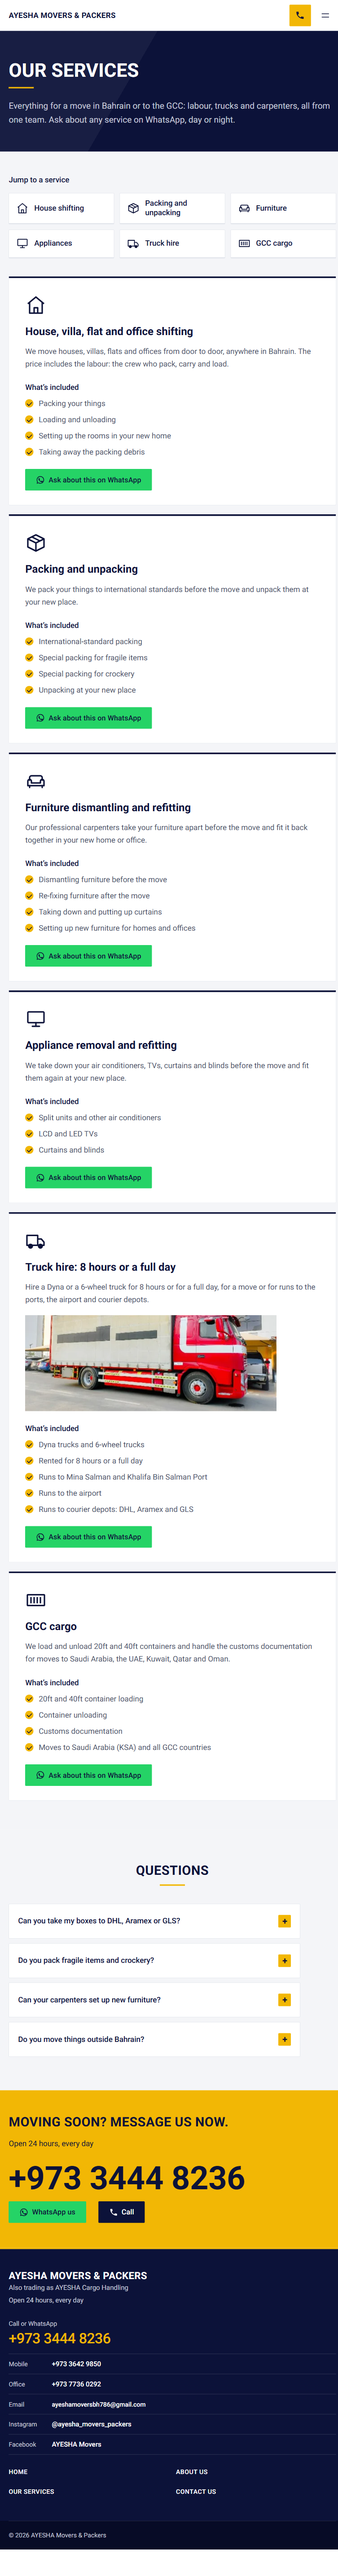
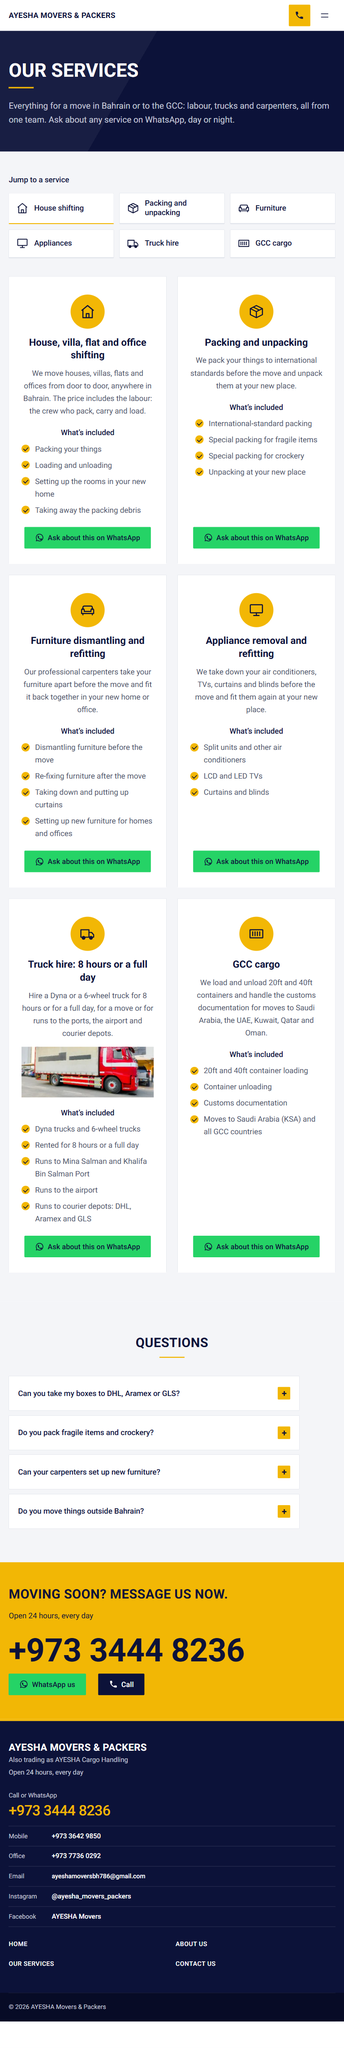
Phase 7: Our Services cards in Home's card style
Icon in a gold circle, centred title and text, What's included as a centred block, WhatsApp
button at the card foot, hover lift; 3/2/1 columns. CSS only; anchors unchanged.

Changed region(s): [[0.0, 0.0, 1.0, 0.9963], [0.5498, 0.5915, 0.9469, 0.6227], [0.5193, 0.934, 0.6414, 0.9963]]

diff --git a/wp-content/themes/ayesha-movers/assets/css/theme.css b/wp-content/themes/ayesha-movers/assets/css/theme.css
@@ -53,7 +53,7 @@
 
 /* An icon is a masked box in the current colour. */
 .ayesha-icon,
-:where(.ayesha-svc__section, .ayesha-reason, .ayesha-topbar__item)::before {
+:where(.ayesha-reason, .ayesha-topbar__item)::before {
 	background: currentColor;
 	-webkit-mask: var(--ayesha-icon, var(--ayesha-icon-box)) center / contain no-repeat;
 	mask: var(--ayesha-icon, var(--ayesha-icon-box)) center / contain no-repeat;
@@ -1271,53 +1271,89 @@ a { color: var(--ayesha-navy); text-underline-offset: 0.2em; }
 .ayesha-jump__list a:hover,
 .ayesha-jump__list a[aria-current] { border-bottom-color: var(--ayesha-gold); }
 
-/* The six services: white cards, two across on computers. */
-.ayesha-svc__sections { display: grid; gap: 1.25rem; }
+/* The six services: white cards like Home's "What we do" (icon in a gold circle, centred title and
+   text, hover lift), three across on wide screens. The "What's included" list stays left-aligned as
+   a centred block, so the ticks line up. */
+.ayesha-svc__sections { display: grid; gap: 1.5rem; }
 
-@media (min-width: 960px) {
-	.ayesha-svc__sections { grid-template-columns: repeat(2, minmax(0, 1fr)); gap: 1.5rem; }
+@media (min-width: 640px) {
+	.ayesha-svc__sections { grid-template-columns: repeat(2, minmax(0, 1fr)); }
+}
+
+@media (min-width: 1100px) {
+	.ayesha-svc__sections { grid-template-columns: repeat(3, minmax(0, 1fr)); }
 }
 
 .ayesha-svc__section {
 	position: relative;
+	display: flex;
+	flex-direction: column;
+	align-items: center;
 	box-sizing: border-box;
-	padding: 2rem 1.5rem !important;
+	padding: 2.5rem 1.75rem 2rem !important;
 	background: #fff;
 	border: 1px solid var(--ayesha-line);
-	border-top: 4px solid var(--ayesha-navy);
+	border-bottom: 3px solid transparent;
 	border-radius: 2px;
 	color: var(--ayesha-slate);
+	text-align: center;
+	transition: transform 200ms ease, box-shadow 200ms ease, border-color 200ms ease;
 }
 
-@media (min-width: 600px) {
-	.ayesha-svc__section { padding: 2.25rem 2.25rem 2rem !important; }
-}
-
+/* Icon: a gold circle (::before) with the service's line icon on it (::after), as on Home. */
 .ayesha-svc__section::before {
 	content: "";
-	display: block;
-	width: 48px;
-	height: 48px;
-	margin-block-end: 1.25rem;
+	flex: none;
+	width: 76px;
+	height: 76px;
+	margin-block-end: 1rem;
+	border-radius: 50%;
+	background: var(--ayesha-gold);
+}
+
+.ayesha-svc__section::after {
+	content: "";
+	position: absolute;
+	top: calc(2.5rem + 20px);
+	left: calc(50% - 18px);
+	width: 36px;
+	height: 36px;
 	background: var(--ayesha-navy);
+	-webkit-mask: var(--ayesha-icon, var(--ayesha-icon-box)) center / contain no-repeat;
+	mask: var(--ayesha-icon, var(--ayesha-icon-box)) center / contain no-repeat;
 }
 
 .ayesha-svc__section > * { margin-block: 0; }
-.ayesha-svc__section > * + * { margin-block-start: 1rem; }
+.ayesha-svc__section > * + * { margin-block-start: 0.75rem; }
 
 .ayesha-svc__section h2 {
 	scroll-margin-block-start: 2rem;
-	font-size: 1.5rem;
+	font-size: 1.375rem;
 	font-weight: 700;
+	line-height: 1.3;
 	text-transform: none;
 	letter-spacing: 0;
 }
 
-.ayesha-svc__section > .ayesha-svc__label { margin-block-start: 1.5rem; color: var(--ayesha-navy); font-weight: 500; }
+.ayesha-svc__section > .ayesha-svc__label { margin-block-start: 1.25rem; color: var(--ayesha-navy); font-weight: 500; }
+.ayesha-svc__section > .ayesha-checklist { text-align: left; align-self: center; max-inline-size: 100%; }
 .ayesha-svc__section > .ayesha-svc__label + .ayesha-checklist { margin-block-start: 0.5rem; }
-.ayesha-svc__section > .wp-block-buttons { margin-block-start: 1.5rem; }
-.ayesha-svc__photo { margin-block-start: 1.25rem !important; }
-.ayesha-svc__photo img { display: block; max-width: 100%; height: auto; }
+
+/* The WhatsApp button sits at the foot of the card, so the buttons line up across a row. */
+.ayesha-svc__section > .wp-block-buttons { justify-content: center; margin-block-start: auto; padding-block-start: 1.5rem; }
+
+.ayesha-svc__photo { margin-block-start: 1rem !important; align-self: stretch; }
+.ayesha-svc__photo img { display: block; max-width: 100%; height: auto; margin-inline: auto; }
+
+@media (hover: hover) and (prefers-reduced-motion: no-preference) {
+	.ayesha-svc__section:hover {
+		transform: translateY(-6px);
+		box-shadow: 0 14px 30px rgb(12 18 57 / 0.12);
+		border-bottom-color: var(--ayesha-gold);
+	}
+}
+
+.ayesha-svc__section:focus-within { border-bottom-color: var(--ayesha-gold); }
 
 /* ---- Gallery: "Seen on our Facebook & Instagram" (hidden on the site until it has a photo) ---- */
 body:not(.editor-styles-wrapper) .ayesha-gallery:not(:has(img)) { display: none; }

diff --git a/PROGRESS.md b/PROGRESS.md
@@ -70,6 +70,7 @@ In the Media Library, the tags are prefixed to the title (`[DO NOT USE]`, `[PLAC
   - **Fifth round (2026-10-06): option A built.** Home "What we do" is six equal cards on light grey (3 × 2 on computers, 2 across from 640px, 1 on phones): icon in a gold circle (from the title's `#anchor`), centred title linking to its Our Services section, the same text, "Ask on WhatsApp" at the foot of the card; cards lift on hover (pointer devices, not with reduced motion); "See all services" is an outline button. As noted for A: the house-shifting card's "Every move includes" list and photo 12 are **no longer on Home** (the list is on Our Services; photo 12 stays in the Media Library), and its green "Ask about this on WhatsApp" button is now the same "Ask on WhatsApp" link as the others (same message). Every title, text, link and WhatsApp message was checked identical before saving. **Side effect fixed:** with "What we do" now light grey, the bands were re-alternated with style classes only (no words): Home "How a move works" → white, synced "Where we go" → Light grey panel, About "Who runs it + How we work" → white.
   - **Sixth round (2026-10-06):** "Best way to reply" removed from the Contact Us form (new block setting **Form parts → Ask "Best way to reply"**, off on Contact Us; the question is kept and comes back when switched on), and the choice tiles aligned across the whole form: every tile has the same 1px edge, the selected one a 2px navy edge drawn inside plus a light tint, the text keeps its weight (so the tile no longer grows), and tiles in a row are equal width.
   - **Seventh round (2026-10-06, user screenshot of Home on a wide screen):** two Home blocks left the 1200px content column on screens wider than 1280px: the "What we do" card grid (full screen width) and the "How a move works" steps (started at the column but ran to the right edge). Both CSS rules fixed; every block on all 4 pages now stays within the header's column at 375, 768, 1280, 1440, 1920 and 2560px.
+  - **Eighth round (2026-10-06, "follow site-home-1920.png" = Services cards like Home):** the six Our Services cards now use Home's card look: white on light grey, icon in a gold circle, centred title and text, the "What's included" list as a centred block with left-aligned ticks, the WhatsApp button at the foot of the card (lined up across each row), hover lift; 3 across from 1100px, 2 from 640px, 1 on phones. CSS only; no content or anchors changed.
 - **Next step:** the user reviews `phase-7-design`; after approval: remove the junctions (`rmdir`), restore the main checkout's folders, merge into `main`, push, smoke-test. Then Phase 8.
 - **Last completed:** Phase 6 (Contact Us + quote form + email), approved and merged into `main` 2026-10-03 at 497997f (fast-forward); smoke test passed (see Test results › Phase 6 › Post-merge smoke test).
 - **Test data kept on the local site (user decision 2026-10-03):** 19 test enquiries AYM-261003-001 … 019 and AYM-261006-001 (015–019 and 261006-001 sent in Phase 7: "Phase7 Test", "Phase7b Test", "Short NoMsg Test", "Short Msg <b>Test</b>", "Full Form Test") and WP Mail Logging rows 4–28 (row 27 went to the made-up address shorttest@example.com; locally nothing is delivered).
@@ -575,4 +576,15 @@ Screenshots: `site-{home,about,services,contact}-1920.png`.
 | F1 | Every child of every constrained container inside the header's column (left and right edge) | Nothing outside | Before (1920): What we do grid 24–1881 px, steps 352–1881 px, column 352–1552. After: nothing outside on all 4 pages at 375, 768, 1280, 1440, 1920 and 2560 (the footer's copyright bar is full width on purpose; its text starts at the column) | Pass |
 | F2 | Horizontal scroll | 0 px | 0 px on all 4 pages at all 6 widths | Pass |
 | F3 | axe at 1920 | 0 serious/critical | Only the known moderate `region` on all 4 pages | Pass |
+
+#### Phase 7, eighth round (Services cards like Home; run 2026-10-06)
+Screenshots: `services-cards-{375,768,1280,1920}.png`, `site-services-{375,768,1280,1920}.png`.
+
+| # | Test | Expected | Result | Pass/Fail |
+|---|---|---|---|---|
+| G1 | Grid inside the column | Same edges as the header | 375: 16–344, 768: 19–733, 1280: 32–1232, 1920: 352–1552 px (= header column) | Pass |
+| G2 | Cards per row; buttons lined up | 1 / 2 / 3 / 3 | 375: 1 per row, 768: 2, 1280 and 1920: 3; WhatsApp buttons share one bottom line in every row | Pass |
+| G3 | Icons | One per card | 6/6 | Pass |
+| G4 | Anchors | `#house-shifting` … `#cargo` land on their headings | All 6 at 32 px from the top | Pass |
+| G5 | Horizontal scroll; axe | 0 px; 0 serious/critical | 0 px at 375/768/1280/1920; only the known moderate `region` | Pass |
 

diff --git a/docs/editing-guide.md b/docs/editing-guide.md
@@ -181,7 +181,7 @@ Each service is one group named "Service: …". Click any text to change it:
 - **Ask about this on WhatsApp**: the link comes from Business Info and the chat opens with the service already typed. To change that message, use the code editor (⋮ → **Code editor**), find `"message":"…"` in that button and edit the words between the quotes (see section 3).
 - **The truck photo** (Truck hire): click it, then **Replace**. Keep the alt text a plain description of what is in the photo, and don't say the truck is yours until that's confirmed. (The photo was cropped in the Media Library so the brand name on the cab doesn't show; **Edit image → Restore image** there brings back the full photo.)
 
-Each service shows as a white card (two side by side on computers), with its icon at the top.
+Each service shows as a white card like the ones on Home (three across on wide screens, two on tablets, one on phones), with its icon in a gold circle at the top and the WhatsApp button at the foot of the card.
 
 ### The "Jump to a service" list
 
